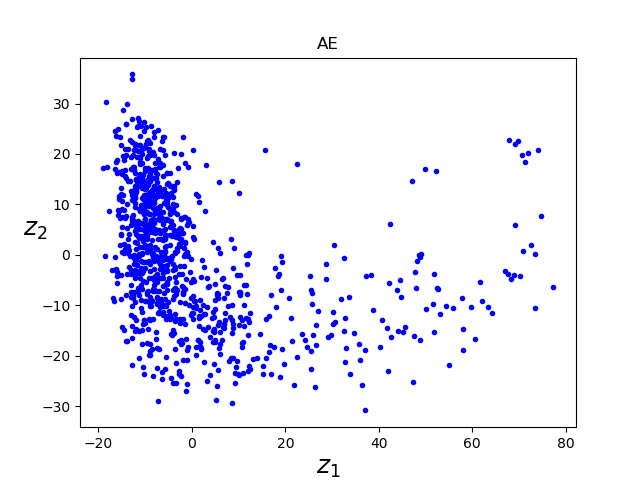
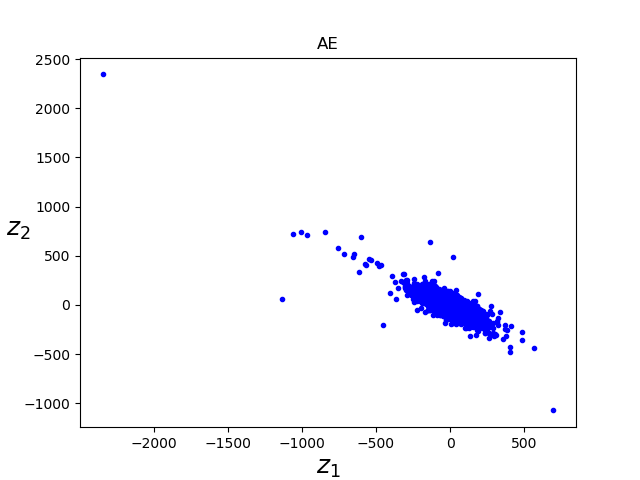
Autoencoder working

diff --git a/PCA_AEs.py b/PCA_AEs.py
@@ -1,19 +1,90 @@
+#!/usr/bin/env python3
+
+import os
+import sys
+from time import time
+
+import numpy as np
 import matplotlib
 import matplotlib.pyplot as plt
-def plt_spec_pca(flx,pca_flx,componets):
-    '''Comparative plot to see how efficient is the PCA compression'''
-    plt.figure(figsize=(8,4));
+from sklearn.preprocessing import StandardScaler
+from sklearn.decomposition import PCA
+from tensorflow import keras
+from sklearn.preprocessing import StandardScaler
 
-    # Original Image
-    plt.subplot(1, 2, 1);
-    plt.plot(flx)
-    plt.xlabel(f'{flx.size} components', fontsize = 14)
-    plt.title('Original Spectra', fontsize = 20)
+from PCA_AEs_lib import plot_2D
+from PCA_AEs_lib import plt_spec_pca
 
-    # principal components
-    plt.subplot(1, 2, 2);
-    plt.plot(pca_flx)
-    plt.xlabel(f'{componets} componets', fontsize = 14)
-    plt.title('Reconstructed spectra', fontsize = 20)
-    plt.show()
-    plt.close()
+
+ti = time()
+
+## Loading the data
+
+fname = sys.argv[1]#'flx_5000.npy'
+dir = f'{os.getcwd()}/db/'
+exist = os.path.exists(f'{dir}{fname}')
+if exist:
+    flx = np.load(f'{dir}{fname}')
+else:
+    print(f'There is no {fname} in {dir} directory!')
+
+## Performing PCA
+
+pca = PCA(n_components=2) #0.99999951 (100)
+
+tr_flx= pca.fit_transform(flx)
+
+print(f'N° of componets: {pca.n_components_}, {tr_flx.shape}')
+
+# ## Inverse transform
+#
+# inv_tr= pca.inverse_transform(tr_flx)
+#
+# ## Checking the percentages of explained variance
+#
+# tot_var = sum(pca.explained_variance_)
+#
+# expl_var = [(i/tot_var)*100 for i in sorted(pca.explained_variance_, reverse=True)]
+
+# plot_2D(tr_flx, 'PCA')
+
+# n = 10
+# for i in range(n):
+#     print(f'Component N° {i} explains {expl_var[i]:.3}% of the vatiance')
+#
+# print(f'These first {n} components explain {sum(expl_var[:n]):.6}% of the variance')
+
+# ## Ploting a spetrum
+#
+# plt_spec_pca(flx[0],inv_tr[0],pca.n_components_)
+#
+
+## Creating the AE
+# I do create it in two parts because later on I'll need to acces the latent
+# space. Therefore it is necessary to add the input and output shape
+
+
+encoder = keras.models.Sequential([keras.layers.Dense(2, input_shape=(flx.shape[1],))])
+decoder = keras.models.Sequential([keras.layers.Dense(flx.shape[1])])
+autoencoder = keras.models.Sequential([encoder, decoder])
+
+autoencoder.compile(loss="mse", optimizer=keras.optimizers.Adam(lr=5e-1, decay=1e-2/20))
+
+## Normalizing the flux: removing the mean value and normalizing by the standard
+# deviation. This is done because pca.fit_transform does the same on the data.
+# Therefore if we want to compare we need to have the same data.
+
+sc = StandardScaler()
+flx = sc.fit_transform(flx)
+
+## Fitting
+
+history = autoencoder.fit(flx, flx, epochs=50, batch_size=400)
+latent = encoder.predict(flx)
+
+print(latent.shape)
+
+plot_2D(latent, 'AE')
+
+tf = time()
+print(f'Running time: {tf-ti:.2f}')

diff --git a/uRF_SDSS.py b/uRF_SDSS.py
@@ -136,7 +136,7 @@ def calcEbv(gs, dbPath):
         ebvMap = sfdmap.SFDMap(dbPath + 'sfddata-master')
 
         # Calculate E(b-v) for each galaxy parallelly
-        res = Parallel(n_jobs=-2, verbose=1)(
+        res = Parallel(n_jobs=-1, verbose=1)(
             delayed(calcEbv_i)(gs.iloc[i], ebvMap, i) for i in range(len(gs)))
 
         res = sorted(res, key=lambda x: x[0])
@@ -169,7 +169,7 @@ def fitsToSpecs(gs, dbPath, nanRemovalThreshold=0.15):
         start = time()
 
         # Get spectra from .fits files
-        res = Parallel(n_jobs=-2, verbose=5)(
+        res = Parallel(n_jobs=-1, verbose=5)(
             delayed(fitsToSpecs_i)(gs.iloc[i], dbPath, i) for i in range(len(gs)))
         print('    Done!')
 
@@ -201,7 +201,7 @@ def fitsToSpecs(gs, dbPath, nanRemovalThreshold=0.15):
         # Place spectra on grid & smooth
         print('  Manipulating spectra... ')
 
-        res = Parallel(n_jobs=-2, verbose=5)(
+        res = Parallel(n_jobs=-1, verbose=5)(
             delayed(fitsToSpec_manipulate_i)(grid, wls[i], specsList[i], i) for i in range(len(gs)))
 
         res = sorted(res, key=lambda x: x[0])
@@ -363,7 +363,7 @@ def remove_cont(specs, grid, poly_order=5, bin_size=600):
         spec_med_wl = [np.median(grid[0:100])] + spec_med_wl + [np.median(grid[-100:])]
         print(f'Before calling remove_cont_i global_specs has a shape of {global_specs.shape}')
         # Calculate the spectrum with no continuum parallelly
-        res = Parallel(n_jobs=-1)(   # Change the number of jobs to -1 to use all available cores (for larger samples)
+        res = Parallel(n_jobs=1)(   # Change the number of jobs to -1 to use all available cores (for larger samples)
             delayed(remove_cont_i)(grid, spec_med_wl, poly_order, bin_size, i) for i in range(m))
         specs_no_cont = np.zeros(global_specs.shape)
         poly_coefs = np.zeros((m, poly_order + 1))
@@ -549,7 +549,7 @@ def calcDisMat(rf, X_real):
         estList = rf.estimators_
         n_est = len(estList)
 
-        realLeafs = Parallel(n_jobs=-2, verbose=1)(
+        realLeafs = Parallel(n_jobs=-1, verbose=1)(
             delayed(realLeaf_i)(estList[i].tree_.value, leafs[:, i]) for i in range(n_est))
         realLeafs = np.array(realLeafs, dtype=bool).T
 
@@ -561,7 +561,7 @@ def calcDisMat(rf, X_real):
         # pool = mp.Pool()
         # f = partial(dist_i_mp)
         # res = pool.map(dist_i_mp, range(n))
-        res = Parallel(n_jobs=-2, verbose=1)(delayed(dist_i)(i, leafs[i:, :], leafs[i], realLeafs[i:, :], realLeafs[i]) for i in range(n))
+        res = Parallel(n_jobs=-1, verbose=1)(delayed(dist_i)(i, leafs[i:, :], leafs[i], realLeafs[i:, :], realLeafs[i]) for i in range(n))
 
         del leafs, realLeafs
         for tup in res:

diff --git a/PCA_AEs_lib.py b/PCA_AEs_lib.py
@@ -1,5 +1,6 @@
 import matplotlib
 import matplotlib.pyplot as plt
+
 def plt_spec_pca(flx,pca_flx,componets):
     '''Comparative plot to see how efficient is the PCA compression'''
     plt.figure(figsize=(8,4));
@@ -15,5 +16,15 @@ def plt_spec_pca(flx,pca_flx,componets):
     plt.plot(pca_flx)
     plt.xlabel(f'{componets} componets', fontsize = 14)
     plt.title('Reconstructed spectra', fontsize = 20)
+    plt.show()
+    plt.close()
+
+def plot_2D(data, title):
+    fig = plt.figure()
+    plt.title(title)
+    plt.plot(data[:,0], data[:, 1], "b.")
+    plt.xlabel("$z_1$", fontsize=18)
+    plt.ylabel("$z_2$", fontsize=18, rotation=0)
+    plt.savefig(f'{title}.png')
     plt.show()
     plt.close()

diff --git a/data_proc.py b/data_proc.py
@@ -46,7 +46,7 @@ gs.index = np.arange(n1_rows)
 # Choose the top n_obs median SNR objects
 gs.sort_values(by=['snMedian'], ascending=False, inplace=True)
 
-n_obs = 10
+n_obs = 5_000
 gs = gs[:n_obs]
 
 gs.index = np.arange(n_obs)
